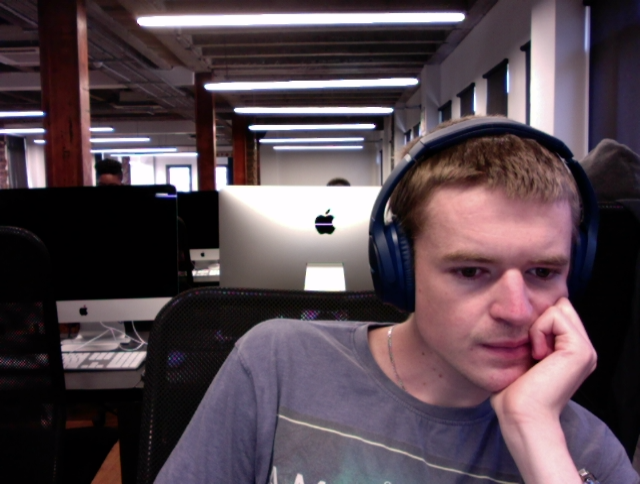
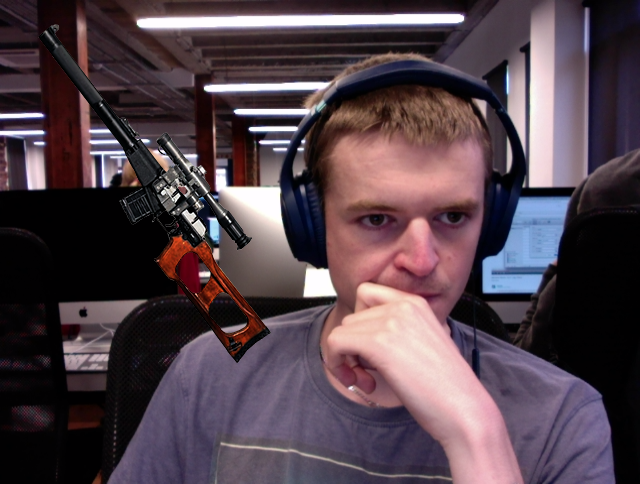
img working need to get overlay working

diff --git a/style/style.css b/style/style.css
@@ -56,14 +56,24 @@ li button:hover {
     background-color: #333333;
 }
 
-.filter{
-    float: right;
-    width: 20%;
-    height: 1000%;
-    border: 6px solid;
-}
-
 #myCanvas{
     display: block;
-    height: 690px;
+    position: absolute;
+    top: 9001px;
+    right: 9001px;
 }
+
+.previewdiv{
+    poistion: relative;
+    bottom: 294px;
+    right: 2px;
+    z-index: 2;
+}
+
+video{
+    poistion: relative;
+    bottom: 294px;
+    right: 2px;
+
+}
+

diff --git a/snap.php b/snap.php
@@ -6,30 +6,38 @@
 </head>
 <body onload="init();">
 <?php include "header.php"; ?>
-<div class="filter">
-    <input onclick="chkd()" id="filter" name="filter" type="radio" value="1">Plastic<br>
-    <input onclick="chkd()" id="filter" name="filter" type="radio" value="2">Blood<br>
-    <input onclick="chkd()" id="filter" name="filter" type="radio" value="3">Snake<br>
-    <input onclick="chkd()" id="filter" name="filter" type="radio" value="4">Money<br>
-    <input onclick="chkd()" id="filter" name="filter" type="radio" value="5">Cat<br>
-    <input onclick="chkd()" id="filter" name="filter" type="radio" value="6">AK47<br>
-    <input onclick="chkd()" id="filter" name="filter" type="radio" value="7">Sniper<br>
-    <input onclick="chkd()" id="filter" name="filter" type="radio" value="8">Bear<br>
-    <input onclick="chkd()" id="filter" name="filter" type="radio" value="9">Hand<br>
-    <input onclick="chkd()" id="filter" name="filter" type="radio" value="10">Scratch<br>
-</div>
-<h1>Take a snapshot of the current video stream</h1>
-Click on the Start WebCam button.
-<p>
-    <button onclick="startWebcam();">Start WebCam</button>
-    <button id="stop" onclick="stopWebcam();">Stop WebCam</button>
-    <button id="snap" onclick="snapshot();">Take Snapshot</button>
-</p>
-<video onclick="snapshot(this);" width=640 height=484 id="video" controls autoplay></video>
-<p>
+<div class="main">
+    <div class="filter">
+        <p>Select an image to superimpose:</p>
+        <input onclick="chkd(1)" id="filter" name="filter" type="radio" value="1">Plastic<br>
+        <input onclick="chkd(2)" id="filter" name="filter" type="radio" value="2">Blood<br>
+        <input onclick="chkd(3)" id="filter" name="filter" type="radio" value="3">Snake<br>
+        <input onclick="chkd(4)" id="filter" name="filter" type="radio" value="4">Money<br>
+        <input onclick="chkd(5)" id="filter" name="filter" type="radio" value="5">Cat<br>
+        <input onclick="chkd(6)" id="filter" name="filter" type="radio" value="6">AK47<br>
+        <input onclick="chkd(7)" id="filter" name="filter" type="radio" value="7">Sniper<br>
+        <input onclick="chkd(8)" id="filter" name="filter" type="radio" value="8">Bear<br>
+        <input onclick="chkd(9)" id="filter" name="filter" type="radio" value="9">Hand<br>
+    </div>
+    <h1>Take a snap</h1>
+    Click on the Start WebCam button.
+    <p>
+        <button onclick="startWebcam();">Start WebCam</button>
+        <button id="stop" onclick="stopWebcam();">Stop WebCam</button>
+        <button id="snap" onclick="snapshot();">Take Snapshot</button>
+    </p>
 
-    Screenshots : </p>
-    <canvas  id="myCanvas" width="640" height="484"></canvas>
+    <div id="previewdiv"></div>
+    <video onclick="snapshot(this);" width=640 height=484 id="video" controls autoplay></video>
+
+    <p>
+
+        Screenshots : </p>
+        <canvas  id="myCanvas" width="640" height="484"></canvas>
+</div>
+<div class="side">
+
+</div>
 <?php include "footer.php"; ?>
 </body>
 
@@ -48,11 +56,27 @@ Click on the Start WebCam button.
 
     document.getElementById("snap").disabled = true;
     document.getElementById("stop").disabled = true;
-    function chkd() {
+    function chkd(choice) {
         var vid = document.getElementById("video");
         if (vid.currentTime > 0 && document.getElementById("snap").disabled == true) {
             document.getElementById("snap").disabled = false;
         }
+        var img = document.createElement("img");
+        var elem = document.getElementById('preview');
+        if (elem != null) {
+            elem.parentNode.removeChild(elem);
+        }
+        var src = "stock/";
+        src =  src.concat(choice.toString());
+        src = src.concat(".png");
+        img.src = src;
+        img.width = 640;
+        img.height = 384;
+        img.alt = "filter";
+        img.id = "preview";
+
+        // This next line will just add it to the <body> tag
+        document.getElementById("previewdiv").appendChild(img);
     }
     function startWebcam() {
         var radios = document.getElementsByName("filter");
@@ -117,8 +141,7 @@ Click on the Start WebCam button.
                 if( radios[i].checked ) {
                     i++;
                     choice = i.toString();
-                    console.log(choice);
-                    canvasData.concat(choice);
+                    canvasData = canvasData.concat(choice);
                     break ;
                 }
             }

diff --git a/testsave.php b/testsave.php
@@ -2,11 +2,14 @@
 if (isset($GLOBALS["HTTP_RAW_POST_DATA"])) {
     $imageData = $GLOBALS['HTTP_RAW_POST_DATA'];
     $filter = substr($imageData, -1);
-    $filterData = substr($imageData, "", -1);
+    $filterData = substr($imageData, 0, -1);
     $filteredData = substr($imageData, strpos($imageData, ",") + 1);
     $unencodedData = base64_decode($filteredData);
     $fp = fopen('temp.png', 'wb');
     fwrite($fp, $unencodedData);
+    fclose($fp);
+    $fp = fopen('test.txt', 'wb');
+    fwrite($fp, $filter);
     fclose($fp);
 }
 //https://stackoverflow.com/questions/3876299/merging-two-images-with-php
